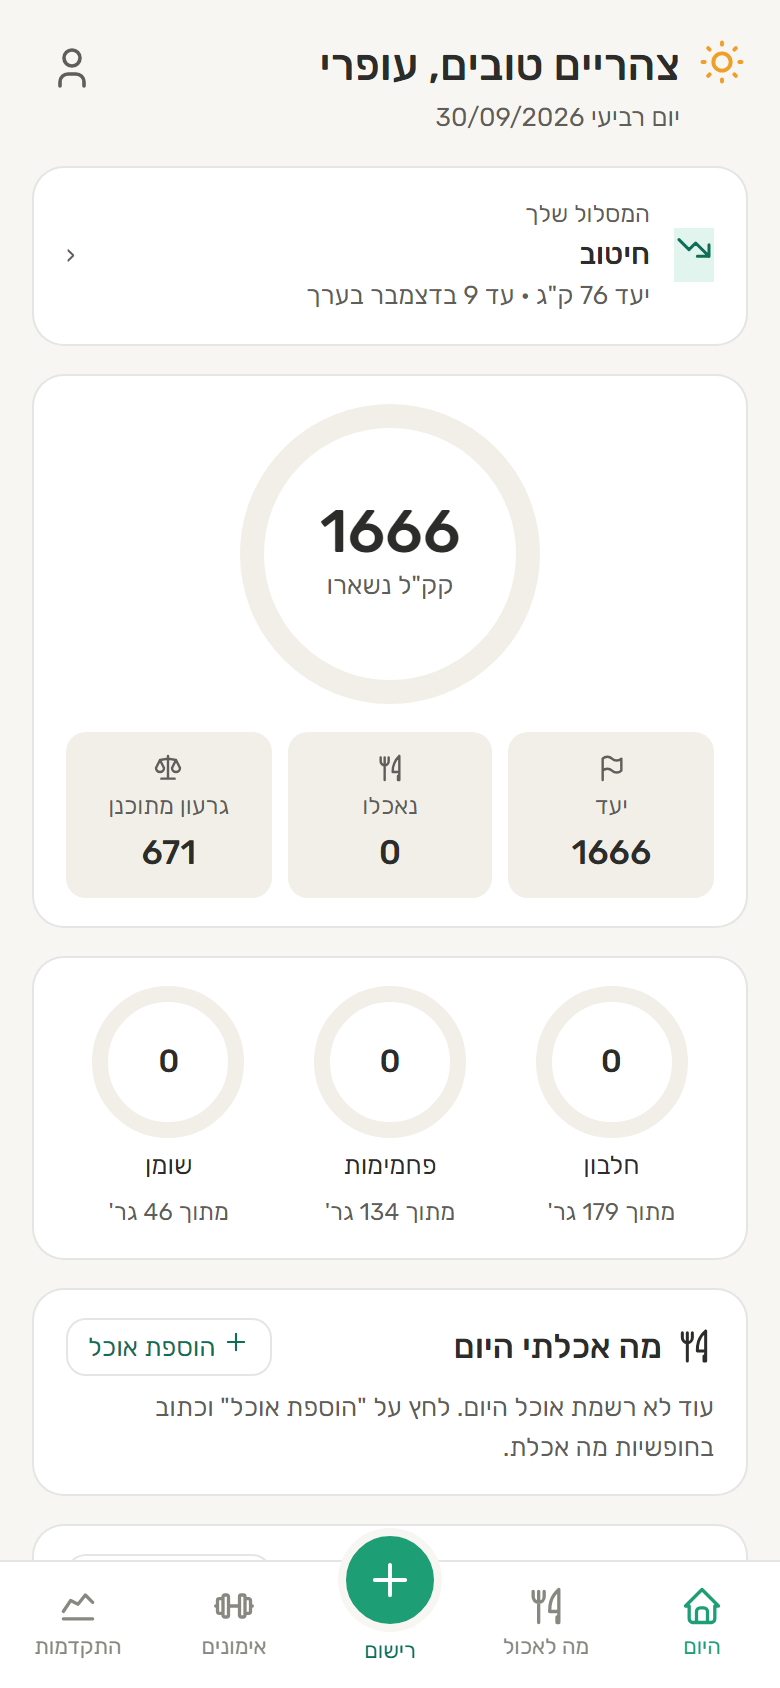
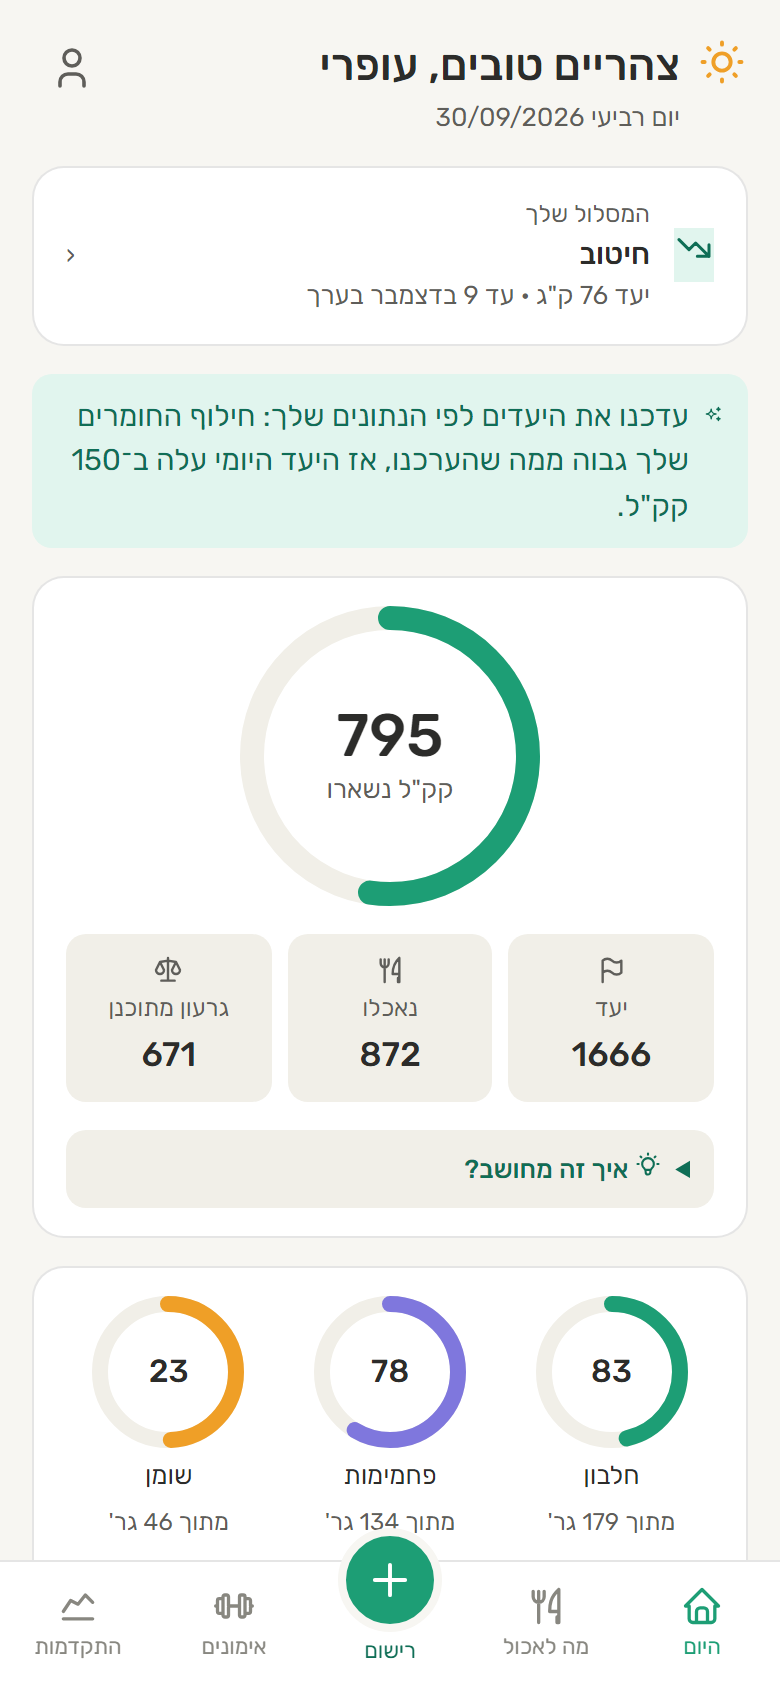
Home screen: 'how is this calculated?' with the user's own numbers, and why the macros are what they are

diff --git a/frontend/src/pages/Today.tsx b/frontend/src/pages/Today.tsx
@@ -2,6 +2,7 @@ import { useState, type ReactNode } from 'react'
 import { Link } from 'react-router-dom'
 import { api, errorMessage } from '../api/client'
 import type { DailyStatus, FoodLogEntry, Goal, Unit, Workout } from '../api/types'
+import { Explainer } from '../components/Explainer'
 import { Icon, type IconName } from '../components/Icon'
 import { Ring } from '../components/Ring'
 import { useApi } from '../hooks/useApi'
@@ -81,7 +82,39 @@ function CalorieCard({ status }: { status: DailyStatus }) {
           ? <Stat icon="scale" label={planned < 0 ? 'גרעון מתוכנן' : 'עודף מתוכנן'} value={Math.abs(planned)} />
           : <Stat icon="flame" label="אימון" value={Math.round(workout_kcal)} />}
       </div>
+      <div style={{ width: '100%' }}><CalorieExplainer status={status} /></div>
     </div>
+  )
+}
+
+const KCAL_PER_KG = 7700 // mirrors domain/models.py
+const fmt = (n: number) => Math.round(n).toLocaleString('he-IL')
+
+/** "How are these numbers calculated?" - with the user's own numbers, so the target isn't a black box. */
+function CalorieExplainer({ status }: { status: DailyStatus }) {
+  const user = useUser()
+  const { target, workout_kcal, planned_balance } = status
+  const burn = target.kcal - planned_balance - workout_kcal // daily expenditure without workouts
+  const gap = Math.abs(planned_balance)
+  const kgPerWeek = ((gap * 7) / KCAL_PER_KG).toFixed(2)
+  const base = target.kcal - workout_kcal
+
+  const targetText = {
+    cut: `היעד (${fmt(base)}) = השריפה פחות גרעון של ${fmt(gap)} קק"ל, כדי לרדת בערך ${kgPerWeek} ק"ג בשבוע.`,
+    bulk: `היעד (${fmt(base)}) = השריפה ועוד עודף של ${fmt(gap)} קק"ל, כדי לעלות בערך ${kgPerWeek} ק"ג בשבוע.`,
+    maintain: `היעד (${fmt(base)}) שווה לשריפה, כדי לשמור על המשקל.`,
+  }[user.goal]
+
+  return (
+    <Explainer summary="איך זה מחושב?" points={[
+      { icon: 'flame', text: `הגוף שלך שורף בערך ${fmt(burn)} קק"ל ביום. ההערכה מתחילה מנוסחה ומתעדכנת כל שבוע לפי ההתקדמות שלך בפועל.` },
+      { icon: 'flag', text: targetText + (workout_kcal > 0 ? ` האימונים של היום הוסיפו ליעד ${fmt(workout_kcal)} קק"ל.` : '') },
+      { icon: 'kitchen', text: 'נאכלו: כל מה שרשמת ואישרת היום.' },
+      ...(gap > 0 ? [{
+        icon: 'scale' as const,
+        text: `${planned_balance < 0 ? 'גרעון' : 'עודף'} מתוכנן: ההפרש בין היעד לשריפה. זה מה שמזיז את המשקל, כי 7,700 קק"ל הן בערך קילו.`,
+      }] : []),
+    ]} />
   )
 }
 
@@ -101,21 +134,33 @@ const MACROS = [
   { key: 'fat_g', label: 'שומן', color: 'var(--fat)' },
 ] as const
 
+// Protein per kg of body weight, by goal - mirrors domain/energy.py (PROTEIN_G_PER_KG).
+const PROTEIN_PER_KG: Record<Goal, number> = { cut: 2.2, bulk: 1.8, maintain: 1.8 }
+
 function MacroRings({ status }: { status: DailyStatus }) {
+  const user = useUser()
   return (
-    <div className="card grid-3 fade-in" style={{ textAlign: 'center' }}>
-      {MACROS.map((m) => (
-        <div key={m.key} className="stack" style={{ alignItems: 'center', gap: 4 }}>
-          <Ring
-            value={status.eaten[m.key]} max={status.target[m.key]} size={76} stroke={8} color={m.color}
-            label={`${m.label}: ${Math.round(status.eaten[m.key])} מתוך ${Math.round(status.target[m.key])} גרם`}
-          >
-            <div style={{ fontSize: 16, fontWeight: 500 }}>{Math.round(status.eaten[m.key])}</div>
-          </Ring>
-          <div style={{ fontSize: 13 }}>{m.label}</div>
-          <div className="muted" style={{ fontSize: 12 }}>מתוך {Math.round(status.target[m.key])} גר'</div>
-        </div>
-      ))}
+    <div className="card stack fade-in">
+      <div className="grid-3" style={{ textAlign: 'center' }}>
+        {MACROS.map((m) => (
+          <div key={m.key} className="stack" style={{ alignItems: 'center', gap: 4 }}>
+            <Ring
+              value={status.eaten[m.key]} max={status.target[m.key]} size={76} stroke={8} color={m.color}
+              label={`${m.label}: ${Math.round(status.eaten[m.key])} מתוך ${Math.round(status.target[m.key])} גרם`}
+            >
+              <div style={{ fontSize: 16, fontWeight: 500 }}>{Math.round(status.eaten[m.key])}</div>
+            </Ring>
+            <div style={{ fontSize: 13 }}>{m.label}</div>
+            <div className="muted" style={{ fontSize: 12 }}>מתוך {Math.round(status.target[m.key])} גר'</div>
+          </div>
+        ))}
+      </div>
+      <Explainer summary="למה הכמויות האלה?" points={[
+        { color: 'var(--accent)', text: `חלבון: ${PROTEIN_PER_KG[user.goal]} גרם לכל ק"ג משקל גוף. ${user.goal === 'cut'
+          ? 'בחיטוב צריך יותר, כדי לשמור על השריר בזמן הגרעון.' : 'זה מספיק כדי לבנות שריר ולשמור עליו.'}` },
+        { color: 'var(--fat)', text: 'שומן: כרבע מהקלוריות. חשוב להורמונים ולספיגת ויטמינים.' },
+        { color: 'var(--carbs)', text: 'פחמימות: כל מה שנשאר מהיעד. הן הדלק העיקרי לאימונים.' },
+      ]} />
     </div>
   )
 }

diff --git a/frontend/src/components/Explainer.tsx b/frontend/src/components/Explainer.tsx
@@ -1,0 +1,28 @@
+import type { ReactNode } from 'react'
+import { Icon, type IconName } from './Icon'
+
+export interface ExplainerPoint {
+  text: ReactNode
+  icon?: IconName
+  color?: string // a colored dot instead of an icon (e.g. a macro's ring color)
+}
+
+/** A collapsed "how does this work?" box: helps newcomers understand the numbers without cluttering the screen. */
+export function Explainer({ summary, title, points }: { summary: string; title?: string; points: ExplainerPoint[] }) {
+  return (
+    <details className="explainer">
+      <summary><Icon name="bulb" size={14} /> {summary}</summary>
+      {title && <p style={{ fontWeight: 500 }}>{title}</p>}
+      <ul>
+        {points.map((p, i) => (
+          <li key={i}>
+            <span className="explainer-icon">
+              {p.icon ? <Icon name={p.icon} size={15} /> : <i className="dot" style={{ background: p.color }} />}
+            </span>
+            <span>{p.text}</span>
+          </li>
+        ))}
+      </ul>
+    </details>
+  )
+}

diff --git a/frontend/src/components/GoalExplainer.tsx b/frontend/src/components/GoalExplainer.tsx
@@ -1,22 +1,9 @@
 import type { Goal } from '../api/types'
 import { GOAL_EXPLANATIONS } from '../labels'
-import { Icon } from './Icon'
+import { Explainer } from './Explainer'
 
-/** "What does this goal mean?" - collapsed by default, so it helps newcomers without cluttering the screen. */
+/** "What does this goal mean?" under the goal choice (onboarding and profile). */
 export function GoalExplainer({ goal }: { goal: Goal }) {
   const { aim, points } = GOAL_EXPLANATIONS[goal]
-  return (
-    <details className="explainer" key={goal}>
-      <summary><Icon name="bulb" size={14} /> מה זה אומר?</summary>
-      <p style={{ fontWeight: 500 }}>{aim}</p>
-      <ul>
-        {points.map((p) => (
-          <li key={p.text}>
-            <span className="explainer-icon"><Icon name={p.icon} size={15} /></span>
-            <span>{p.text}</span>
-          </li>
-        ))}
-      </ul>
-    </details>
-  )
+  return <Explainer key={goal} summary="מה זה אומר?" title={aim} points={points} />
 }

diff --git a/frontend/src/index.css b/frontend/src/index.css
@@ -156,6 +156,7 @@ label.field { display: flex; flex-direction: column; gap: 4px; font-size: 13px; 
 .explainer li { display: flex; gap: 8px; align-items: flex-start; }
 .explainer-icon { color: var(--accent-text); flex-shrink: 0; line-height: 0; margin-top: 2px; }
 .icon-chip { display: inline-flex; align-items: center; gap: 5px; }
+.explainer .dot { display: inline-block; width: 9px; height: 9px; border-radius: 50%; margin-top: 3px; }
 
 /* ---------- Progress bars ---------- */
 .bar { height: 7px; background: var(--surface-2); border-radius: 4px; overflow: hidden; }

diff --git a/docs/ARCHITECTURE.md b/docs/ARCHITECTURE.md
@@ -40,8 +40,11 @@ the database or the LLM provider without touching a single algorithm.
     adds fat. Beginners build muscle fastest, so they get a faster pace (0.25-0.5% a week) than
     intermediate (0.15-0.4%) or advanced lifters (0.1-0.25%). The question appears only when bulking, and
     existing users default to "intermediate", which kept their targets unchanged.
-- **Explaining the goals in the app.** Under the goal choice, a collapsed "מה זה אומר?" explains what a
-  cut and a bulk mean and why the pace is moderate: users who understand the "why" choose better.
+- **Explaining the numbers in the app.** Collapsed explainers (one `Explainer` component) answer "why?" where
+  a user would ask it: under the goal choice ("מה זה אומר?" - what a cut and a bulk mean, and why the pace
+  is moderate), and on the home screen ("איך זה מחושב?" - how *their* target is built, e.g. "burn 2,337 −
+  deficit 671 = 1,666, about 0.61 kg a week"; and why protein, fat and carbs are what they are). Users who
+  understand the "why" choose better and trust the targets.
 - **Reaching the target switches the targets to maintenance** automatically.
 - **Safety limits:** at most 1% of body weight lost per week, and a minimum calorie floor.
 
